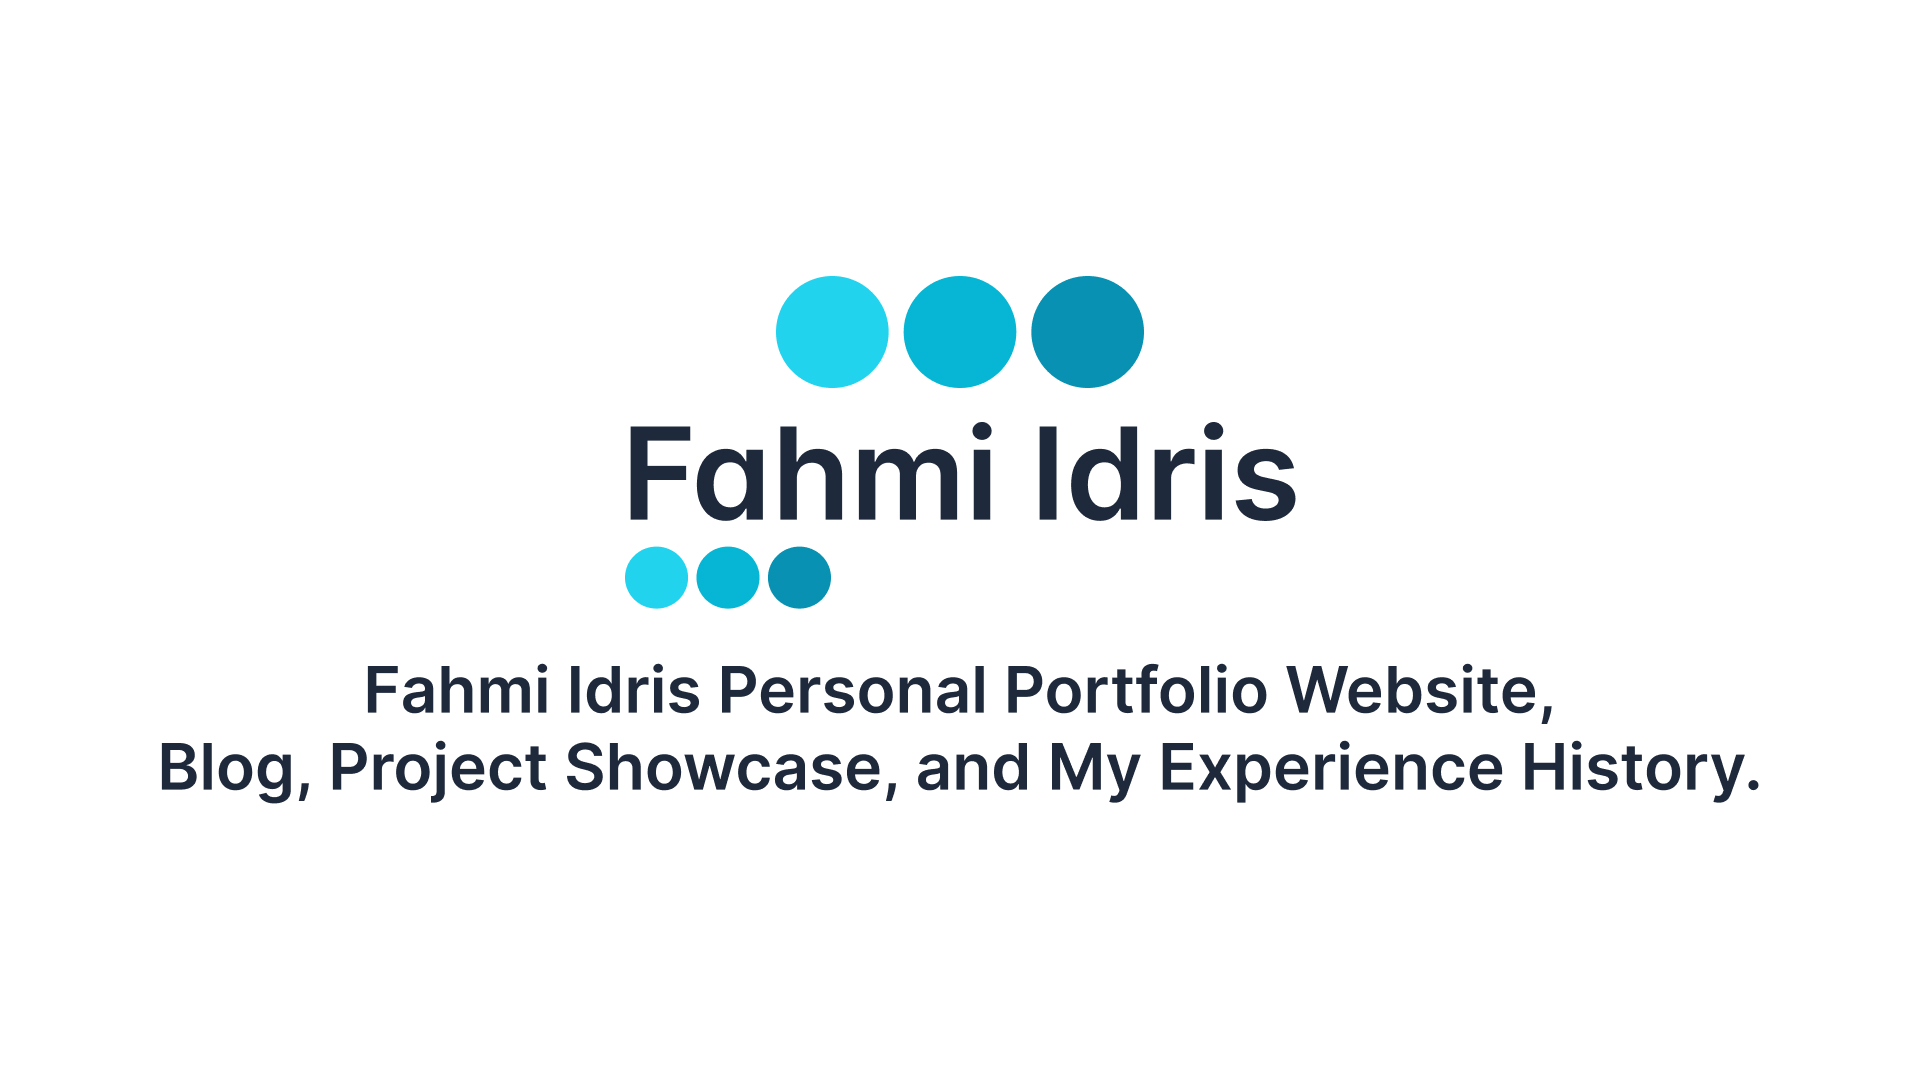
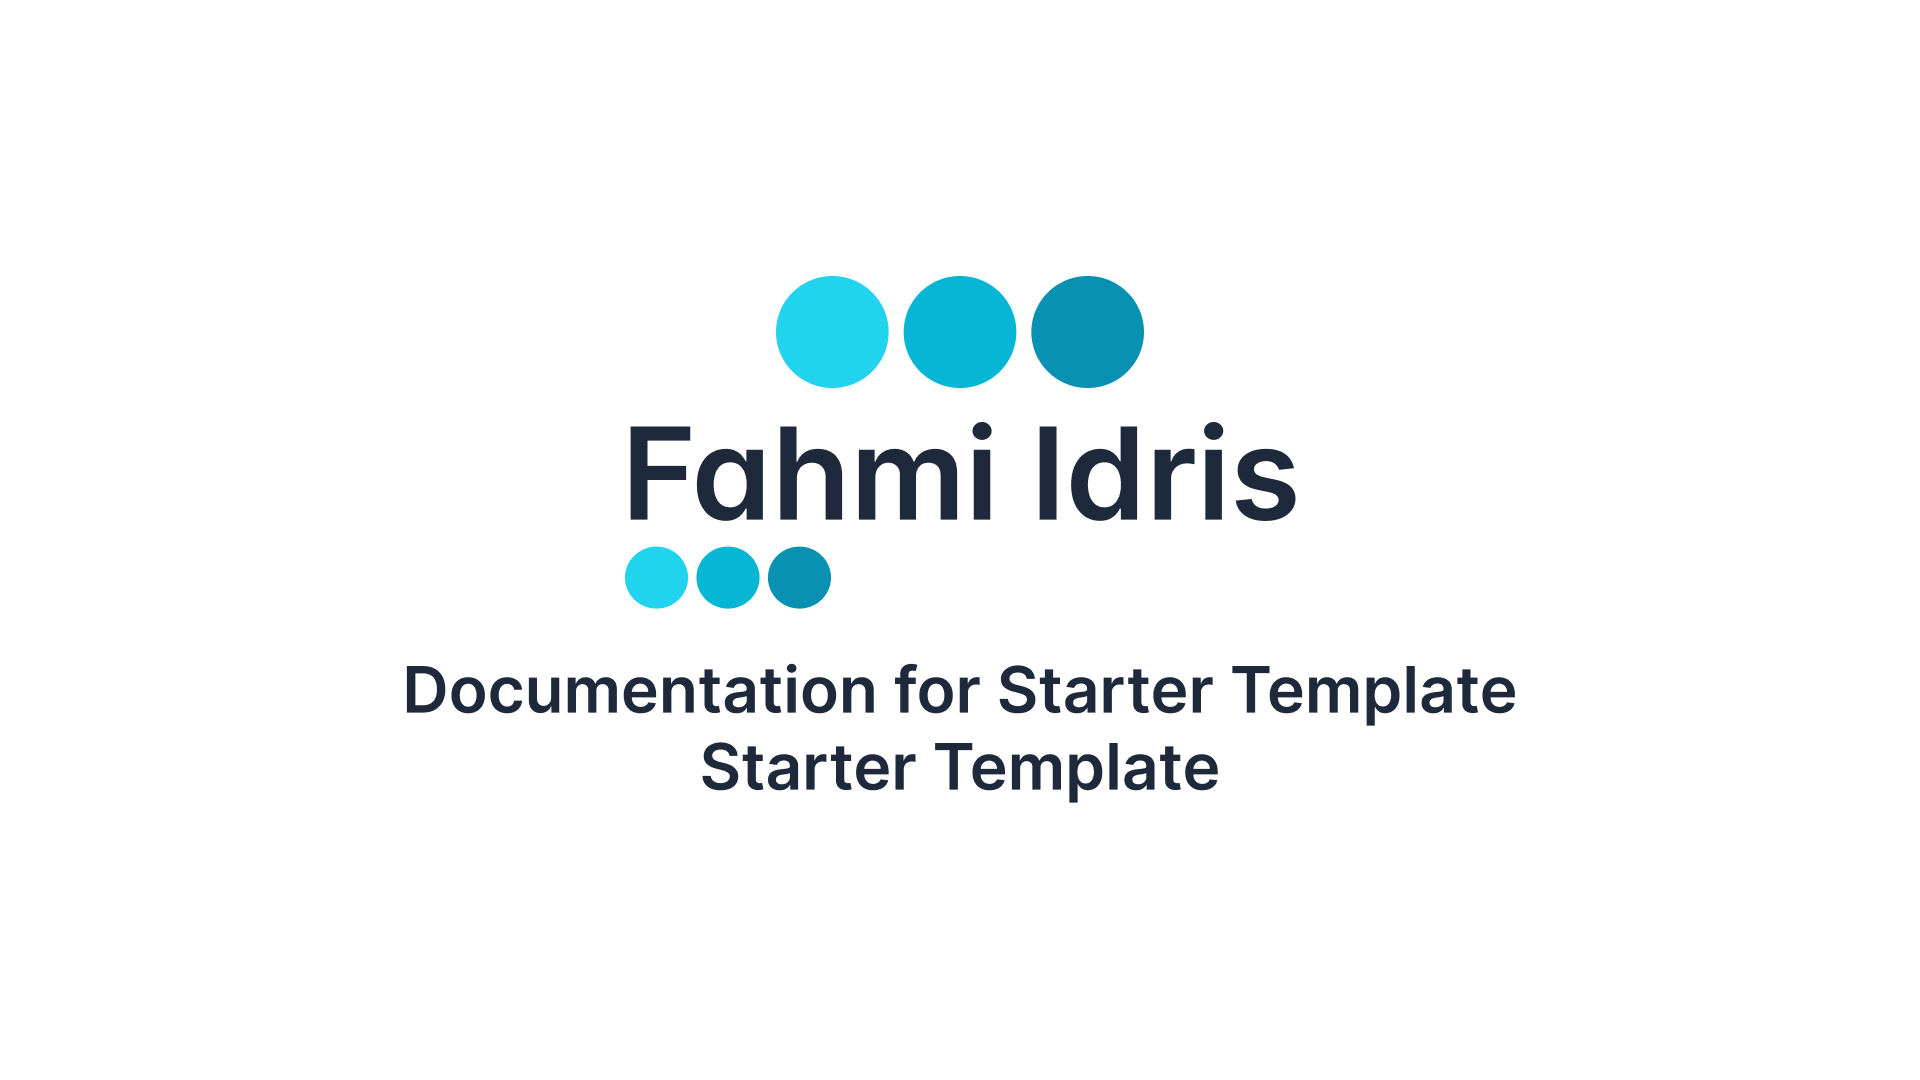
feat: new UI

Changed region(s): [[0.0625, 0.6111, 0.9062, 0.7639]]

diff --git a/src/pages/index.tsx b/src/pages/index.tsx
@@ -1,10 +1,11 @@
 import * as React from 'react';
-import { ExternalLinkIcon } from '@heroicons/react/outline';
+import { ChevronRightIcon } from '@heroicons/react/solid';
 
 import { Logo } from '@/components/logo';
 import { Link } from '@/components/link';
 
 import { ReactComponent as GitHubIcon } from '@/images/icons/github.svg';
+import { ThemeSwitcher } from '@/components/theme-switcher';
 
 import type { TNextPageWithLayout } from 'next';
 
@@ -40,58 +41,76 @@ const starterTemplates: TStarterTemplate[] = [
 const HomePage: TNextPageWithLayout = (): JSX.Element => {
   return (
     <>
-      <div className="relative flex min-h-screen items-center justify-center px-4">
-        <div className="container flex flex-col items-center justify-center">
+      <nav className="fixed inset-x-0 top-0 z-40">
+        <div className="container relative">
+          <div className="flex h-[58px] w-full items-center justify-end">
+            <div className="flex items-center">
+              <ThemeSwitcher />
+            </div>
+          </div>
+        </div>
+      </nav>
+      <div className="relative mt-12 flex min-h-screen flex-col items-center justify-center px-4 md:mt-0">
+        <main className="container flex flex-col items-center justify-center">
           <div className="flex flex-col items-center justify-center">
-            <Logo className="h-10 w-auto !text-white" />
-            <h1 className="pt-4 text-center text-3xl font-semibold text-white">
+            <Logo className="h-10 w-auto dark:!text-white" />
+            <h1 className="pt-4 text-center text-lg font-semibold text-slate-700 dark:text-white md:text-3xl">
               Documentation for Starter Template
             </h1>
-            <p className="text-sm text-slate-400">Start your project with this starter template.</p>
+            <p className="text-sm text-slate-500 dark:text-slate-400">
+              Start your project with this starter template.
+            </p>
           </div>
           <div className="flex items-center justify-center gap-4 py-8">
             <Link
               href="https://github.com/fahmiidris-labs?tab=repositories&q=starter"
               openNewTab={true}
-              className="inline-flex items-center justify-between space-x-2 rounded-lg border border-slate-300 bg-white py-2 pl-4 pr-3 text-sm font-semibold text-slate-700 hover:bg-slate-50 focus:outline-none focus:ring-2 focus:ring-cyan-400 focus:ring-offset-2 dark:border-transparent dark:bg-slate-800 dark:text-slate-300 dark:ring-offset-slate-900 dark:hover:bg-slate-700"
+              className="inline-flex items-center justify-between space-x-2 rounded-lg border border-transparent bg-slate-700 py-2 pl-4 pr-3 text-sm font-semibold text-white hover:bg-slate-800 focus:outline-none focus:ring-2 focus:ring-cyan-400 focus:ring-offset-2 dark:border-transparent dark:bg-slate-800 dark:text-slate-300 dark:ring-offset-slate-900 dark:hover:bg-slate-700"
             >
               <GitHubIcon className="h-5 w-5" />
-              <span>GitHub Repository</span>
+              <span className="hidden md:block">GitHub Repository</span>
+              <span className="block md:hidden">GitHub</span>
             </Link>
             <Link
               href="/docs"
-              className="inline-flex items-center justify-between space-x-2 rounded-lg border border-slate-300 bg-white py-2 pl-4 pr-3 text-sm font-semibold text-slate-700 hover:bg-slate-50 focus:outline-none focus:ring-2 focus:ring-cyan-400 focus:ring-offset-2 dark:border-transparent dark:bg-slate-800 dark:text-slate-300 dark:ring-offset-slate-900 dark:hover:bg-slate-700"
+              className="inline-flex items-center justify-between space-x-2 rounded-lg border border-slate-300 bg-white py-2 pl-4 pr-3 text-sm font-semibold text-slate-700 hover:bg-slate-50 focus:outline-none focus:ring-2 focus:ring-cyan-400 focus:ring-offset-2 dark:border-transparent dark:bg-cyan-400 dark:text-slate-700 dark:ring-offset-slate-900 dark:hover:bg-cyan-500"
             >
               Documentation
             </Link>
           </div>
-          <div className="grid max-w-2xl grid-cols-2 gap-4">
-            {starterTemplates.map((template) => (
-              <Link
-                key={template.title}
-                href={template.href}
-                openNewTab={true}
-                className="col-span-1 inline-flex items-center justify-between space-x-2 rounded-lg border border-slate-300 bg-white py-2 pl-4 pr-3 text-sm font-semibold text-slate-700 hover:bg-slate-50 focus:outline-none focus:ring-2 focus:ring-cyan-400 focus:ring-offset-2 dark:border-transparent dark:bg-slate-800 dark:text-slate-300 dark:ring-offset-slate-900 dark:hover:bg-slate-700"
-              >
-                <span>{template.title}</span>
-                <ExternalLinkIcon className="h-4 w-4" />
-              </Link>
-            ))}
+          <div>
+            <ul className="grid grid-cols-1 gap-x-6 gap-y-10 sm:grid-cols-2 xl:grid-cols-3">
+              {starterTemplates.map((starterTemplate) => (
+                <li key={starterTemplate.title} className="relative flex flex-row-reverse">
+                  <div className="peer group flex-auto">
+                    <h4 className="mb-2 font-semibold leading-6 text-slate-900 dark:text-slate-200">
+                      <Link href={starterTemplate.href} className="animated-underline">
+                        {starterTemplate.title}
+                      </Link>
+                      <ChevronRightIcon className="ml-3 -mt-px inline h-4 w-auto overflow-visible text-slate-400 opacity-0 group-focus-within:opacity-100 group-hover:opacity-100" />
+                    </h4>
+                    <p className="text-sm leading-6 text-slate-700 dark:text-slate-400">
+                      {starterTemplate.description}
+                    </p>
+                  </div>
+                </li>
+              ))}
+            </ul>
           </div>
-        </div>
-        <div className="container absolute bottom-0 flex items-center justify-center py-4">
+        </main>
+        <footer className="container mt-8 flex items-center justify-center py-4 md:absolute md:bottom-0 md:mt-0">
           <p className="flex items-center justify-center space-x-4 text-xs font-semibold">
             © {new Date().getFullYear()} - By
             <Link
               href="https://www.fahmiidris.dev"
               openNewTab={true}
-              className="animated-underline ml-1 text-white"
+              className="animated-underline ml-1 text-slate-700 dark:text-white"
             >
               Fahmi Idris
             </Link>
             . All Rights Reserved.
           </p>
-        </div>
+        </footer>
       </div>
     </>
   );

diff --git a/src/components/footer.tsx b/src/components/footer.tsx
@@ -5,7 +5,7 @@ export const Footer = (): JSX.Element => {
     <footer className="mt-12">
       <div className="border-t border-gray-800">
         <div className="container flex items-center justify-center py-4">
-          <p className="flex items-center justify-center space-x-4 text-xs font-medium text-white">
+          <p className="flex items-center justify-center space-x-4 text-xs font-medium text-slate-700 dark:text-white">
             © {new Date().getFullYear()} - Fahmi Idris. All Rights Reserved.
           </p>
         </div>
